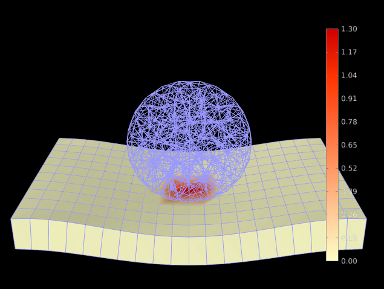
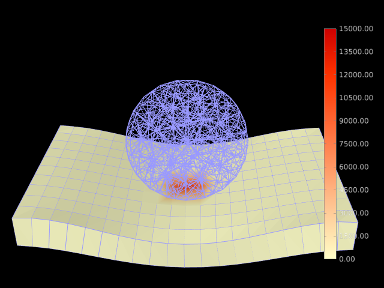
Modified the colorMapRange property of CollisionBehavior so that by default it is null, with the colorMapRange of the CollisionManager being used instead. This allows all collision interactions to use the same color map range.

Changed region(s): [[0.0, 0.0938, 0.9688, 0.9375]]

diff --git a/doc/modelguide/mechanicalModelsII.tex b/doc/modelguide/mechanicalModelsII.tex
@@ -2355,10 +2355,11 @@ An enum of type
 \javaclass[artisynth.core.mechmodels]{CollisionBehavior\$ColorMapType}
 requesting that a color map be drawn over the contact regions showing
 a scalar value such as penetration depth or contact force pressure.
-The collidable (0 or 1) onto which the color map is drawn is controlled by
-the {\sf colorMapCollidable} property (described below). The range of values
-used for generating the map is controlled by the {\sf colorMapRange}
-property, also described below.  The values are mapped onto colors
+The collidable (0 or 1) onto which the color map is drawn is
+controlled by the {\sf colorMapCollidable} property (described
+below). The range of values used for generating the map is controlled
+by the {\sf colorMapRange} property of either the collision manager or
+the behavior, as described below.  The values are mapped onto colors
 using the {\sf colorMap} property of the collision manager.
 
 Values of
@@ -2418,6 +2419,12 @@ which specifies how this interval should be updated: {\tt FIXED} (no
 updating), {\tt AUTO\_EXPAND} (interval is expanded as values increase
 or decrease), and {\tt AUTO\_FIT} (interval is reset to fit the values
 at every render step).
+
+When the {\sf colorMapRange} value for a {\tt CollisionBehavior} is
+set to {\tt null} (which is the default), the {\sf colorMapRange} of
+the {\tt CollisionManager} is used instead. This has the advantage of
+ensuring that the same color map range will be used across all
+collision interactions.
 
 \item[colorMapInterpolation]\mbox{}
 
@@ -2594,34 +2601,38 @@ Rendering properties for each body are set at lines
 67-68 and 73-76, with the top body being rendered as a wireframe to
 improve visibility.
 
-Lines 80-87 create and set a collision behavior between the two bodies
+Lines 80-84 create and set a collision behavior between the two bodies
 with the {\sf drawColorMap} property set to
 {\tt PENETRATION\_DEPTH}. Because for this example we
 want to show only the penetration and don't want a collision response,
 we set the collision method to be \javaclassAlt{%
 artisynth.core.mechmodels.CollisionBehavior\$Method\#INACTIVE}%
-{Method.INACTIVE}. The updating of the penetration range is also set
-to {\tt AUTO\_FIT} so that it will be recomputed at every time step.
-At line 91, the collider type used by the collision manager is set to
+{Method.INACTIVE}.
+At line 88, the collider type used by the collision manager is set to
 \javaclassAlt{%
 artisynth.core.mechmodels.CollisionManager\$ColliderType\#AJL\_CONTOUR}%
-{ColliderType.AJL\_CONTOUR}, since this provides more reliable penetration
-calculations for open meshes.
-Other rendering properties are set for the collision manager at lines
-93-108, including a custom color map that varies between {\tt CREAM}
-(the color of the mesh) for no penetration and dark red for maximum
-penetration.
+{ColliderType.AJL\_CONTOUR}, since this provides more reliable
+penetration calculations for open meshes.  Other rendering properties
+are set for the collision manager at lines 90-107, including a custom
+color map that varies between {\tt CREAM} (the color of the mesh) for
+no penetration and dark red for maximum penetration. The updating of
+the color map range in the collision manager is set to {\tt AUTO\_FIT}
+so that it will be recomputed at every time step. (Since the collision
+manager's color map range is set to ``auto fit'' by default, this is
+shown for illustrative purposes only. It is also possible to override
+the collision manager's color map range by setting the {\sf
+colorMapRange} property in specific collision behaviors.)
 
-At line 112, a color bar is created and added to the scene, using the
+At line 111, a color bar is created and added to the scene, using the
 method {\tt createColorBar()} (lines 50-59), to explicitly show the
 depth that corresponds to the different colors. The color bar is given
 the same color map that is used to render the depth. Since the depth
 range is updated every time step, it is also necessary to update the
 corresponding labels in the color bar. This is done by overriding the
-root model's {\tt prerender()} method (lines 116-133), where we obtain
-the collision behavior between the two bodies, and use its depth range
-to update the color bar labels. References to the color bar, {\tt
-MechModel}, and bodies are obtained using the
+root model's {\tt prerender()} method (lines 115-131), where we obtain
+the color map range for the collision manager and use it to update the
+color bar labels. References to the color bar, {\tt MechModel}, and
+bodies are obtained using the
 \javaclass[artisynth.core.modelbase]{CompositeComponent} methods
 \javamethod*[artisynth.core.modelbase.CompositeComponent]{get()} and
 \javamethod*[artisynth.core.modelbase.CompositeComponent]{findComponent()}.

diff --git a/src/artisynth/demos/tutorial/PenetrationRender.java b/src/artisynth/demos/tutorial/PenetrationRender.java
@@ -79,11 +79,8 @@ public class PenetrationRender extends RootModel {
       // collisions INACTIVE since we only care about graphical display
       CollisionBehavior behav = new CollisionBehavior (true, 0);
       behav.setMethod (CollisionBehavior.Method.INACTIVE);
-
       behav.setDrawColorMap (ColorMapType.PENETRATION_DEPTH); 
       behav.setColorMapCollidable (1); // show penetration of mesh 0
-      behav.getColorMapRange().setUpdating (
-         ScalarRange.Updating.AUTO_FIT);
       mech.setCollisionBehavior (body0, body1, behav);
 
       CollisionManager cm = mech.getCollisionManager();
@@ -106,6 +103,8 @@ public class PenetrationRender extends RootModel {
             createColor (204, 0, 0),     // most penetration
          });
       cm.setColorMap (map);
+      // set color map range to "auto fit". 
+      cm.setColorMapRange (new ScalarRange(ScalarRange.Updating.AUTO_FIT));
 
       // create a separate color bar to show depth values associated with the
       // color map
@@ -115,7 +114,7 @@ public class PenetrationRender extends RootModel {
 
    public void prerender(RenderList list) {
       // In prerender, we update the color bar labels based on the updated
-      // penetration range stored in the collision behavior.
+      // color map range stored in the collision manager.
       //
       // Object references are obtained by name using 'findComponent'. This is
       // more robust than using class member variables, since the latter will
@@ -125,8 +124,8 @@ public class PenetrationRender extends RootModel {
       RigidBody body0 = (RigidBody)mech.findComponent ("rigidBodies/body0");
       RigidBody body1 = (RigidBody)mech.findComponent ("rigidBodies/body1");
 
-      CollisionBehavior behav = mech.getCollisionBehavior(body0, body1);
-      ScalarRange range = behav.getPenetrationDepthRange();
+      CollisionManager cm = mech.getCollisionManager();
+      ScalarRange range = cm.getColorMapRange();
       cbar.updateLabels(0, 1000*range.getUpperBound());
       super.prerender(list); // call the regular prerender method
    }

diff --git a/src/artisynth/core/mechmodels/CollisionBehavior.java b/src/artisynth/core/mechmodels/CollisionBehavior.java
@@ -181,8 +181,8 @@ public class CollisionBehavior extends CollisionComponent
    boolean myDrawConstraints = defaultDrawConstraints;
    PropertyMode myDrawConstraintsMode = PropertyMode.Inherited;
 
-   static ScalarRange defaultColorMapRange = new ScalarRange();
-   ScalarRange myColorMapRange = defaultColorMapRange.clone();
+   static ScalarRange defaultColorMapRange = null;
+   ScalarRange myColorMapRange = null;
 
    static ColorInterpolation defaultColorMapInterpolation =
       ColorInterpolation.HSV;
@@ -949,19 +949,25 @@ public class CollisionBehavior extends CollisionComponent
       }
    }
 
-   public void setPenetrationDepthRange (ScalarRange range) {
-      setColorMapRange (range);
-   }
-   
+   /**
+    * Added for backwards compatibility. Returns the color map range.
+    */
    public ScalarRange getPenetrationDepthRange() {
       return getColorMapRange();
    }
 
    public void setColorMapRange (ScalarRange range) {
-      ScalarRange newRange = range.clone();
-      PropertyUtils.updateCompositeProperty (
+      if (range != null) {
+         ScalarRange newRange = range.clone();
+         PropertyUtils.updateCompositeProperty (
             this, "colorMapRange", myColorMapRange, newRange);
-      myColorMapRange = newRange;
+         myColorMapRange = newRange;        
+      }
+      else if (myColorMapRange != null) {
+         PropertyUtils.updateCompositeProperty (
+            this, "colorMapRange", myColorMapRange, null);
+         myColorMapRange = null;
+      }
    }
    
    public ScalarRange getColorMapRange() {

diff --git a/doc/modelguide/femModels.tex b/doc/modelguide/femModels.tex
@@ -3536,12 +3536,16 @@ CONTACT\_PRESSURE}. Because for this example we want the color map to
 be drawn on the {\it second} collidable (the sheet), we set the {\sf
 setColorMapCollidable} property to 1 (line 79); otherwise, the default
 value of 0 would cause the color map to be drawn on the first
-collidable (the ball). (Alternatively, we could have simply defined the
-collision behavior as being between the surface and the ball instead of
-the ball and the sheet.) The color map range is explicitly set to lie
-between $[0, 1.3]$ (line 80); this is in contrast to the example in
-Section \ref{renderingDepth:sec}, where the range is auto-updated on
-each step.  Other rendering properties are set for the collision
+collidable (the ball). (Alternatively, we could have simply defined
+the collision behavior as being between the surface and the ball
+instead of the ball and the sheet.) The color map range is explicitly
+set to lie between $[0, 15000]$ (line 80); this is in contrast to the
+example in Section \ref{renderingDepth:sec}, where the range is
+auto-updated on each step. The color range is also set explicitly in
+the behavior, but if multiple objects were colliding it would likely
+be preferable to set it in the collision manager (with the behavior's
+value left as {\tt null}) to ensure a uniform render range across all
+collisions.  Other rendering properties are set for the collision
 manager at lines 83-97, including a custom color map that varies
 between {\tt CREAM} (the color of the mesh) for no pressure and dark
 red for maximum pressure.

diff --git a/doc/modelguide/overview.tex b/doc/modelguide/overview.tex
@@ -724,13 +724,13 @@ like the following:
 \end{lstlisting}
 First, a \javaclass[artisynth.core.mechmodels]{MechModel} is created
 (with the name {\tt "mech"} in this example, although any name, or no
-name, may be given) and added to the list of models in the root
-model. Subsequent code then creates and adds the components required
-by the {\tt MechModel}, as described in Sections
-\ref{MechModelsI:sec}, \ref{MechModelsII:sec} and \ref{FEMModels:sec}.
-The {\tt build()} method also creates and adds to the root model any
-agents required by the application (controllers, probes, etc.), as
-described in Section \ref{SimulationControl:sec}.
+name, may be given) and added to the list of models in the root model
+using the {\tt addModel()} method. Subsequent code then creates and
+adds the components required by the {\tt MechModel}, as described in
+Sections \ref{MechModelsI:sec}, \ref{MechModelsII:sec} and
+\ref{FEMModels:sec}.  The {\tt build()} method also creates and adds
+to the root model any agents required by the application (controllers,
+probes, etc.), as described in Section \ref{SimulationControl:sec}.
 
 When constructing a model, there is no fixed order in which components
 need to be added. For instance, in the above example, {\tt

diff --git a/src/artisynth/core/mechmodels/CollisionRenderer.java b/src/artisynth/core/mechmodels/CollisionRenderer.java
@@ -227,6 +227,16 @@ public class CollisionRenderer {
       }
    }
 
+   ScalarRange getEffectiveColorMapRange (CollisionHandler handler) {
+      CollisionBehavior behav = handler.myBehavior;
+      if (behav.myColorMapRange != null) {
+         return behav.myColorMapRange;
+      }
+      else {
+         return handler.myManager.getColorMapRange();
+      }
+   }
+
    public void prerender (CollisionHandler handler, RenderProps props) {
       RenderObject ro = new RenderObject();
 
@@ -570,7 +580,7 @@ public class CollisionRenderer {
       double minv, double maxv, HashSet<Face> faces) {
       
       RenderObject rd = new RenderObject();
-      ScalarRange range = handler.myBehavior.myColorMapRange;
+      ScalarRange range = getEffectiveColorMapRange (handler);
       range.updateInterval (minv, maxv);
       float[] rgb = new float[3];
       for (int i=0; i<256; i++) {

diff --git a/src/artisynth/demos/tutorial/ContactPressureRender.java b/src/artisynth/demos/tutorial/ContactPressureRender.java
@@ -77,7 +77,7 @@ public class ContactPressureRender extends RootModel {
       CollisionBehavior behav = new CollisionBehavior (true, 0);
       behav.setDrawColorMap (ColorMapType.CONTACT_PRESSURE); 
       behav.setColorMapCollidable (1); // show color map on collidable 1 (sheet);
-      behav.setColorMapRange (new ScalarRange(0, 1.3));
+      behav.setColorMapRange (new ScalarRange(0, 15000.0));
       mech.setCollisionBehavior (ball, sheet, behav);
 
       CollisionManager cm = mech.getCollisionManager();
@@ -98,7 +98,7 @@ public class ContactPressureRender extends RootModel {
 
       // create a separate color bar to show color map pressure values
       ColorBar cbar = createColorBar();
-      cbar.updateLabels(0, 1.3);
+      cbar.updateLabels(0, 15000);
       cbar.setColorMap (map);
 
       // set color for all bodies

diff --git a/src/artisynth/core/util/ScalarRange.java b/src/artisynth/core/util/ScalarRange.java
@@ -79,6 +79,10 @@ public class ScalarRange
    public ScalarRange() {
    }
    
+   public ScalarRange (Updating updating) {
+      setUpdating (updating);
+   }
+   
    public ScalarRange (double lo, double hi) {
       setInterval (new DoubleInterval(lo, hi));
       setUpdating (Updating.FIXED);
